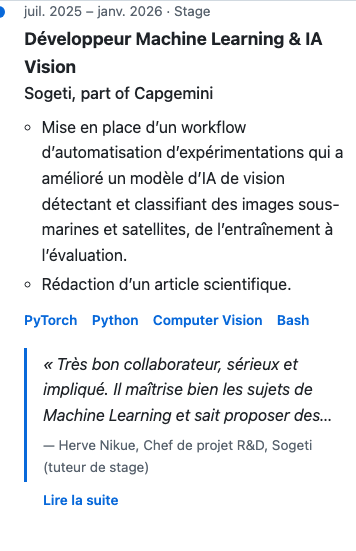
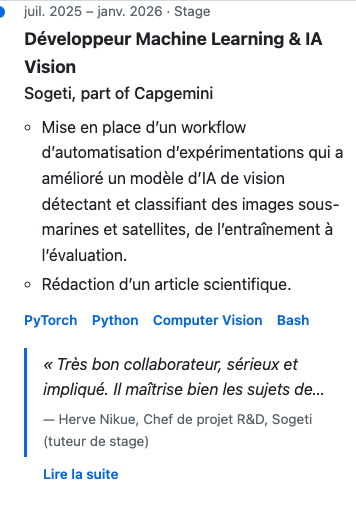
docs: 2-line quotes and updated heights in the M8 review guide

diff --git a/docs/reviews/milestone-8-review-guide.md b/docs/reviews/milestone-8-review-guide.md
@@ -58,13 +58,13 @@ Measured with the same four projects showing media (EN; FR is within ~2%).
 
 | | Phone (390px) | Desktop (1440px) |
 |---|---|---|
-| **Whole page** | 13,600 → **9,368** | 7,450 → **6,920** |
-| Projects | 7,263 → **3,873** | 3,479 → 3,479 |
-| Experience | 2,248 → **2,028** | 1,097 → 1,071 |
+| **Whole page** | 13,600 → **9,300** | 7,450 → **6,920** |
+| Projects | 7,263 → **3,857** | 3,479 → 3,479 |
+| Experience | 2,248 → **1,977** | 1,097 → 1,071 |
 | Skills | 1,609 → **1,180** | 817 → 714 |
 | About | 899 → **811** | 540 → 470 |
 
-The spec estimated "under ~9,000px" on phones; it lands at ~9,400. Large cards went from ~600px to ~250–270px, small cards from ~300px to 137px, the filters to 132px. Experience barely moved, see "Calls I made" below.
+The spec estimated "under ~9,000px" on phones; it lands at ~9,300. Large cards went from ~600px to ~250–270px, small cards from ~300px to 137px, the filters to 132px. Experience saves ~270px now that quotes are cut after 2 lines (see "Calls I made" below).
 
 ## 2. Manual testing
 
@@ -85,7 +85,7 @@ These use your test images and GIFs from `tmp/`, converted to MP4 for the occasi
 | ![Compact rows](milestone-8/projects-small-fr-light-390.png) | ![Skills](milestone-8/skills-en-dark-390.png) |
 | "More projects" as compact rows | Smaller skill chips |
 | ![Filters](milestone-8/filters-en-dark-360.png) | ![Quote](milestone-8/quote-fr-390-clamped.png) |
-| Phones filter with two dropdowns, each option with its count | Quote cut to 3 lines with « Lire la suite » |
+| Phones filter with two dropdowns, each option with its count | Quote cut to 2 lines with « Lire la suite » |
 
 ![Desktop](milestone-8/projects-large-en-dark-1440.png)
 *1440px: media on top as before; the two video cards (cloud, black hole) are videos, loaded because they are on screen at desktop width.*
@@ -116,7 +116,7 @@ The nav bar and "Skip to content" across the middle of some captures are a scree
 - [ ] Context and Domain are dropdowns (with counts, e.g. "Hackathon (5)"); picking one filters the list and the other dropdown's counts follow. Options that would give nothing are greyed out. Nothing scrolls sideways.
 - [ ] Widen the window past 768px: the chips come back, with the same filters still applied.
 - [ ] Sections are closer together; skill chips are smaller.
-- [ ] Under Experience, each quote shows 3 lines and « Lire la suite » / "Read more"; it expands and collapses.
+- [ ] Under Experience, each quote shows 2 lines and « Lire la suite » / "Read more"; it expands and collapses.
 
 ### Desktop with a mouse
 
@@ -133,7 +133,7 @@ Calls I made during the build (please confirm):
 
 - **Overlay darkness: 75% black where the text starts, 85% at the bottom.** The plan's 78–90% hid the picture almost entirely, so during the build I lightened it to 65–80%. The final review then showed the blue "2024 · Hackathon" line falls to 3.6:1 over a white screenshot at 65%. 75% is the lightest that keeps every overlay colour at 4.5:1 or more even over pure white. `src/lib/overlay.ts` holds the values and a test checks both the contrast and that the CSS matches.
 - **Phone filters are dropdowns** (your call after the first look at this PR): the sideways-scrolling chip rows are gone. `ProjectFilters.svelte` renders the chips and two `<select>`s on the same state; CSS shows one set or the other (the hidden one is `display: none`, so keyboard and screen readers never meet both). A browser check at 360px (EN/FR) failed before the change and passes after: no chips on phones, the dropdowns filter the list, counts update, no sideways scroll; at 1280px the chips are back.
-- **The quote clamp saves almost nothing with today's quotes.** They are 4–5 lines on a phone, so cutting them to 3 saves 25–50px, and the "Read more" button adds about 44px back. I built it as specified because it works and will help if a longer recommendation is ever added, but if you'd rather drop it (or only clamp quotes over 5 lines), it's a one-line change in `quoteView`.
+- **Quotes are cut after 2 lines** (your call after the first look at this PR; it was 3). Today's quotes are 4–5 lines on a phone: at 3 lines the clamp saved 25–50px and the "Read more" button took about 44px back, so it gained nothing. At 2 lines each quote saves 2–3 lines.
 - **Review screenshots are section crops** from my own Playwright run, not the audit's full-page shots (9,000px tall and unreadable at a glance).
 - The `wip-m8-handoff` branch was deleted (locally and on GitHub), and the main checkout is back on `master`.
 
@@ -154,6 +154,6 @@ Final review (an independent reviewer on the whole branch): 0 Critical. Fixed, e
 
 Left for later (final-review minors):
 
-- If a quote is expanded and the window is then widened until it would fit in 3 lines (or past 900px) while the button has focus, "Show less" can stay for nothing or drop focus to the page. Rare.
+- If a quote is expanded and the window is then widened until it would fit in 2 lines (or past 900px) while the button has focus, "Show less" can stay for nothing or drop focus to the page. Rare.
 - On phones, only a thin strip at the top of an overlay card is a tap target for the media link (the text covers the rest). The GitHub/demo icons are the real links; worth a look with your real images.
 

diff --git a/docs/superpowers/specs/2026-09-23-portfolio-design.md b/docs/superpowers/specs/2026-09-23-portfolio-design.md
@@ -311,7 +311,7 @@ Only under `(hover: hover) and (pointer: fine)`, so touch screens never get a st
 ### Other sections on phones
 - **Spacing.** `Section` drops `min-height: 60vh` at every width (it only left a gap above the footer after Contact). On phones, section padding goes from `4rem` to `2.5rem` vertically and `h2` from `2rem` to `1.6rem`.
 - **Skills.** On phones, chips get `0.3rem 0.65rem` padding, `0.9rem` text and 18px logos, with tighter chip and group gaps (~400px saved). Desktop unchanged.
-- **Recommendation quotes.** Below `56.25rem` (where Experience is one column) a quote is clamped to 3 lines with a "Read more" / « Lire la suite » button below it, which reads "Show less" / « Réduire » when expanded (`aria-expanded`, `aria-controls` → the quote). The clamp is only applied after hydration, so visitors without JS read the whole quote. The button only appears when the quote actually overflows 3 lines (measured in the browser, re-measured on resize), so it never expands to nothing. At 56.25rem and up there is no clamp and no button. New keys `experience.readMore` / `experience.showLess` in both dicts.
+- **Recommendation quotes.** Below `56.25rem` (where Experience is one column) a quote is clamped to 2 lines with a "Read more" / « Lire la suite » button below it, which reads "Show less" / « Réduire » when expanded (`aria-expanded`, `aria-controls` → the quote). The clamp is only applied after hydration, so visitors without JS read the whole quote. The button only appears when the quote actually overflows 2 lines (measured in the browser, re-measured on resize), so it never expands to nothing. At 56.25rem and up there is no clamp and no button. New keys `experience.readMore` / `experience.showLess` in both dicts. _2 lines rather than 3 since the PR review (2026-10-02): at 3 lines the button cost about as much height as the clamp saved._
 
 ### Deferred minors folded in
 - The large-card placeholder title renders underlined (link default): remove the underline.
